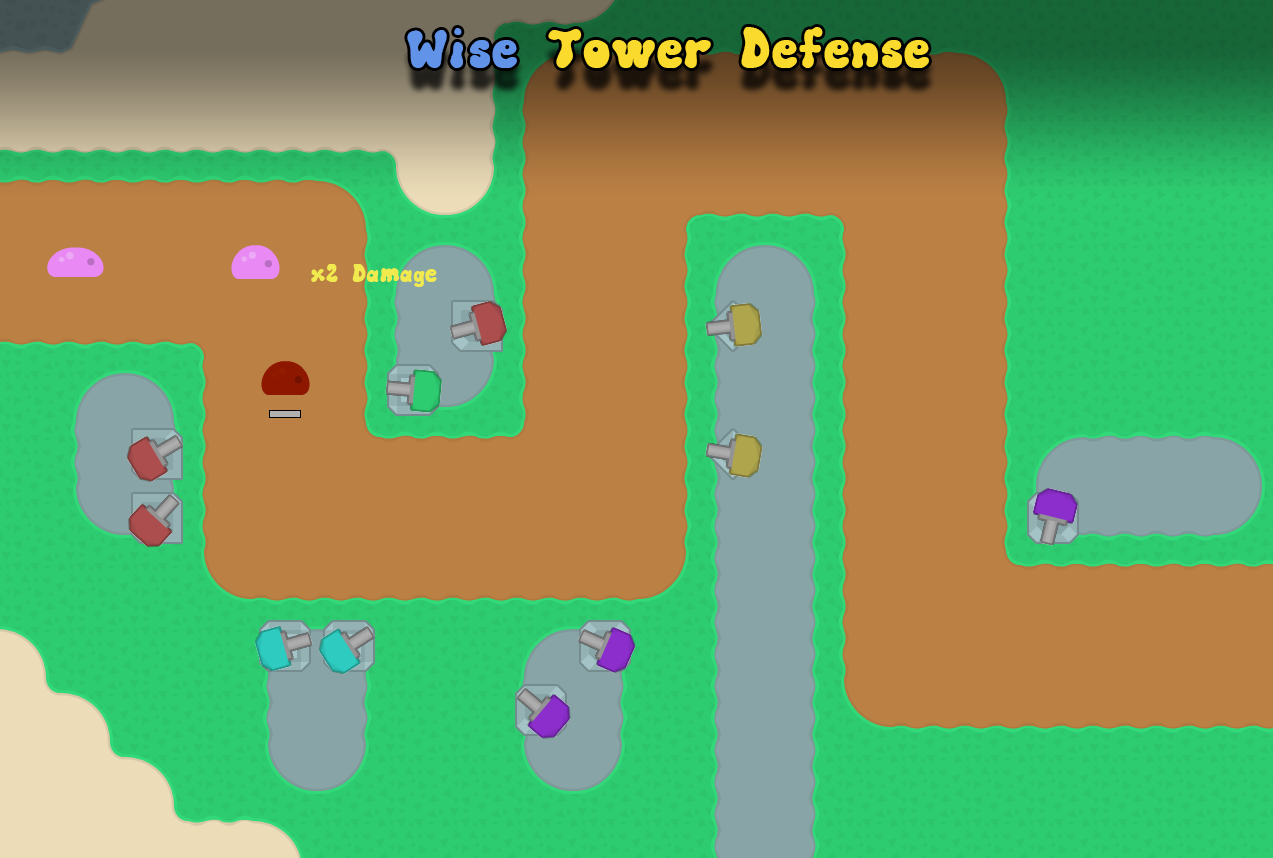
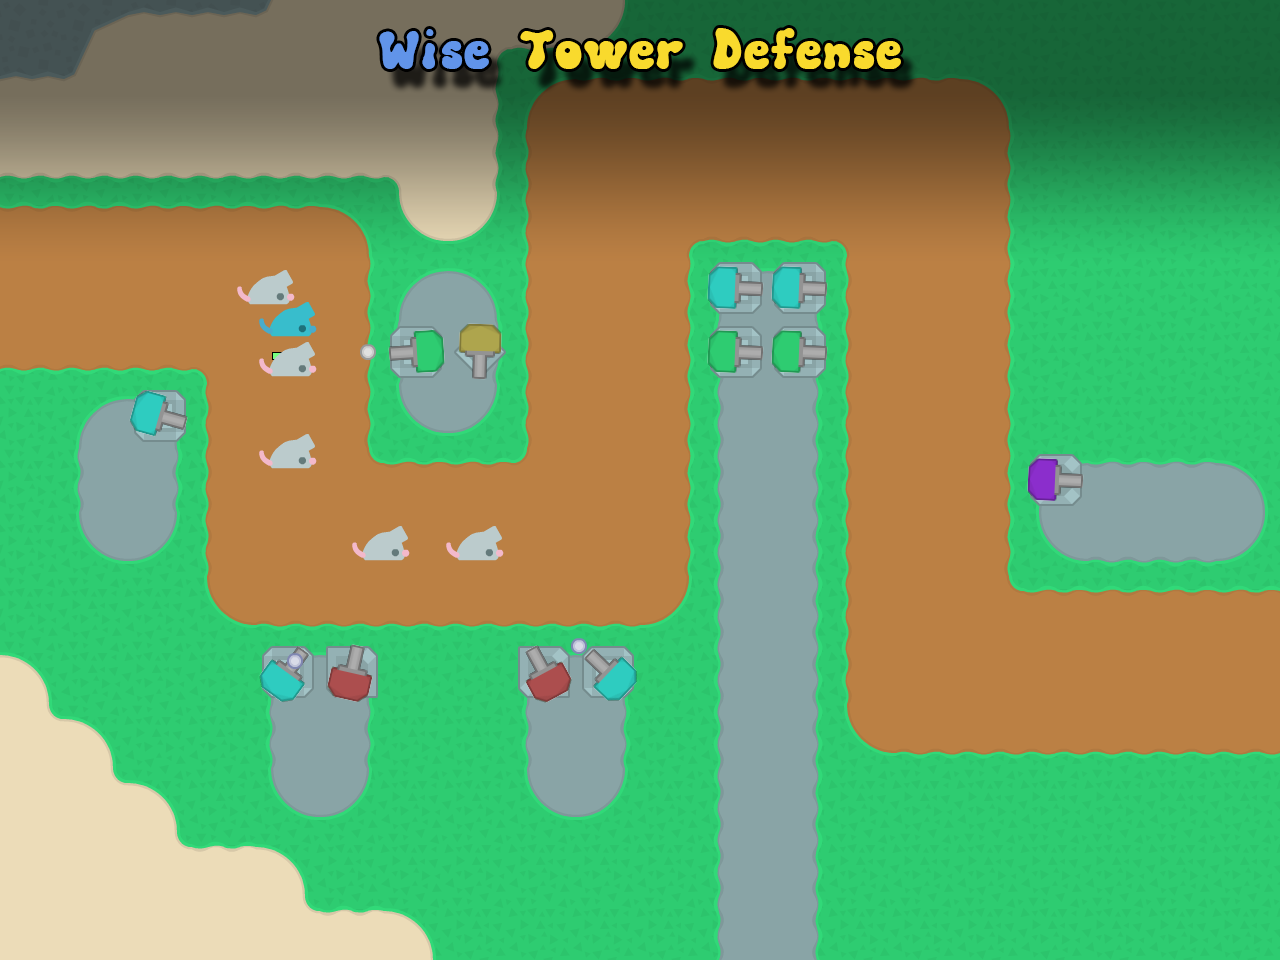
Updated main menu. Pressing F1 will hide the GUI and selected tile.

diff --git a/src/net/johnbrooks/fjg/Player.java b/src/net/johnbrooks/fjg/Player.java
@@ -157,6 +157,10 @@ public class Player
                     setGameMode(GameMode.values()[ordinal]);
                     Log.info("Set GameMode to: " + gameMode.name());
                 }
+                else if (Keyboard.getEventKey() == Keyboard.KEY_F1)
+                {
+                    level.getHudGUI().setVisible(!level.getHudGUI().isVisible());
+                }
                 else if (Keyboard.getEventKey() == Keyboard.KEY_C)
                 {
                     modifyCoins(100);
@@ -272,7 +276,7 @@ public class Player
             Draw.drawTexture(viewDistanceTexture, (int) (selectedTower.getX() - (size * 0.5f) + 32), (int) (selectedTower.getY() - (size * 0.5f) + 32),
                     size, size);
         }
-        else if (selectedTile != null)
+        else if (selectedTile != null && level.getHudGUI().isVisible())
         {
             if (towerToPlace == null)
                 Draw.drawTexture((selectedTile.getYSlot() < TileGrid.TILES_HIGH - 1 && selectedTile.getTileType().isBuildable())

diff --git a/src/net/johnbrooks/fjg/ui/HudGUI.java b/src/net/johnbrooks/fjg/ui/HudGUI.java
@@ -24,7 +24,6 @@ public class HudGUI extends UI
     private Level level;
     private Texture backgroundTexture;
     private int x, y, width, height;
-    private boolean visible;
 
     private int editorTilePage = 0;
 
